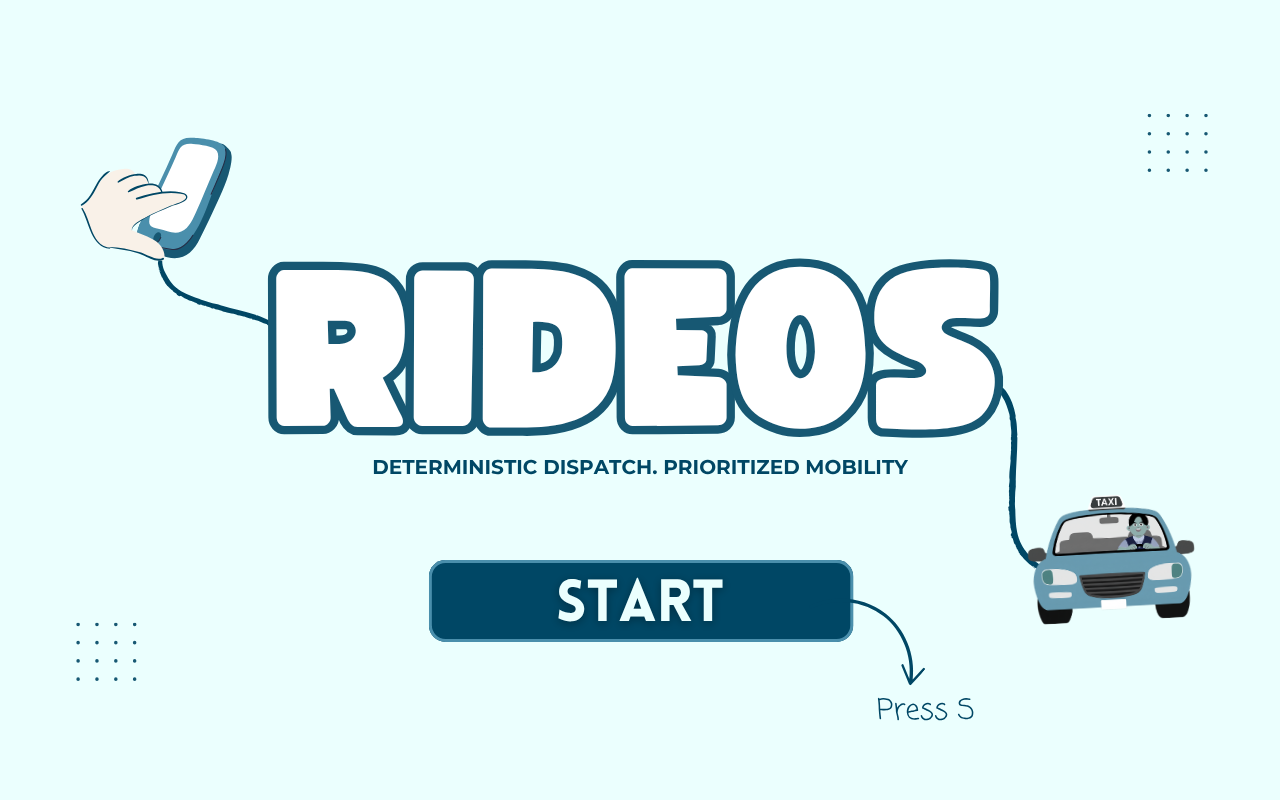
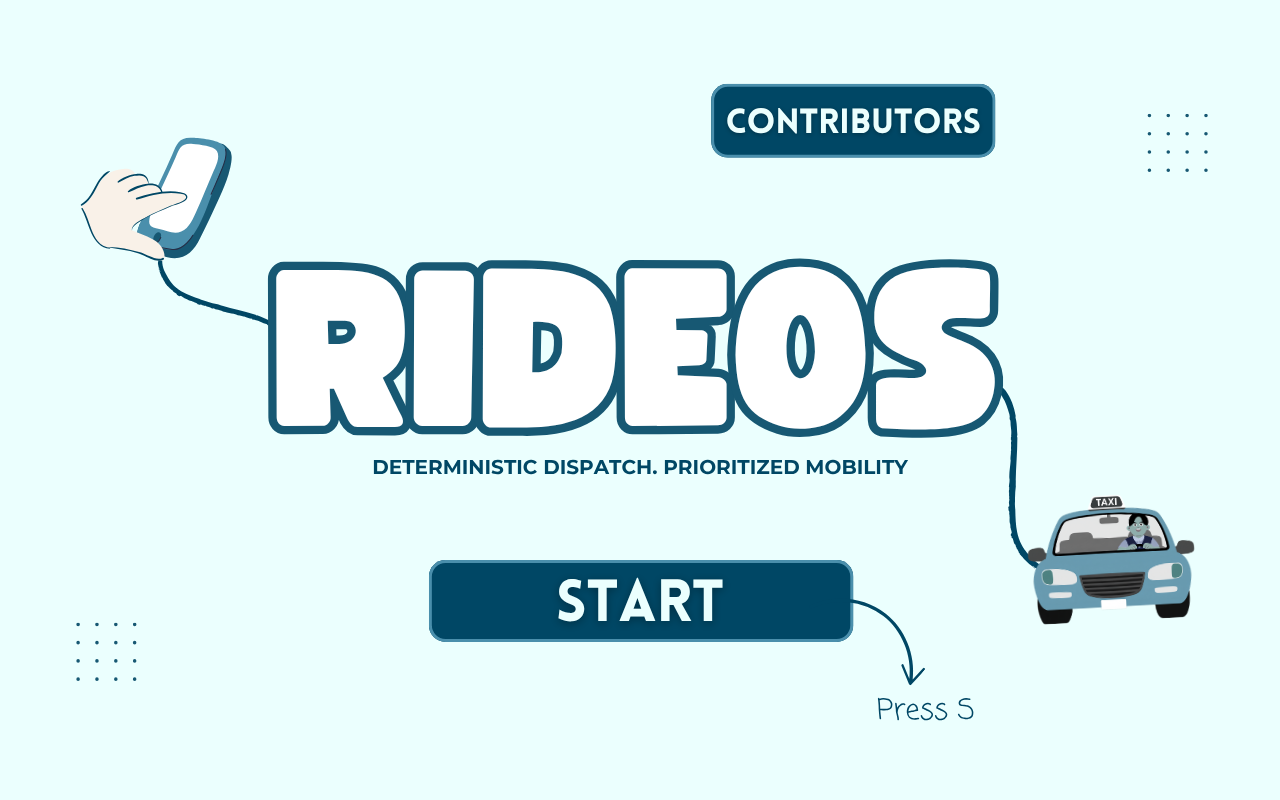
add contributors ong

Changed region(s): [[0.5312, 0.0938, 0.7812, 0.2188]]

diff --git a/request_server/src/gui.c b/request_server/src/gui.c
@@ -26,7 +26,8 @@ typedef enum {
     GUI_INTRO, 
     GUI_CONFIG, 
     GUI_DASHBOARD, 
-    GUI_METRICS 
+    GUI_METRICS,
+    GUI_CONTRIBUTORS 
 } GuiScreen;
 
 int numDriversGrid[10][9] = {
@@ -46,7 +47,7 @@ int numDriversGrid[10][9] = {
 int bgGrid[10][9] = {
     {0, 0, 0, 0, 0, 0, 0, 0, 0},
     {0, 0, 0, 0, 0, 0, 0, 0, 0},
-    {0, 0, 0, 0, 0, 0, 0, 0, 0},
+    {0, 0, 0, 0, 0, 0, 2, 2, 0},
     {0, 0, 0, 0, 0, 0, 0, 0, 0},
     {0, 0, 0, 0, 0, 0, 0, 0, 0},
     {0, 0, 0, 0, 0, 0, 0, 0, 0},
@@ -70,17 +71,18 @@ static const Color C_ORANGE = {230, 145, 60, 255};
 static const Color C_TEXT = {14, 50, 68, 255};
 static const Color C_DIM = {58, 104, 124, 255};
 static const Color C_DARK = {10, 40, 55, 255};
-static const Color C_SIDE_HDR = {4, 58, 76, 255};  // dark sidebar header bg
-static const Color C_SIDE_MID = {8, 72, 96, 255};  // slightly lighter sidebar mid
-static const Color C_PANEL3 = {188, 218, 226, 255};  // darker panel variant
-static const Color C_AMBER = {230, 175, 20, 255};  // warm amber for surge
+static const Color C_SIDE_HDR = {4, 58, 76, 255};   
+static const Color C_SIDE_MID = {8, 72, 96, 255};   
+static const Color C_PANEL3 = {188, 218, 226, 255}; 
+static const Color C_AMBER = {230, 175, 20, 255};  
 
 // asset paths
-#define INTRO_PNG_PATH  "assets/bg.png"
-#define CONFIG_PNG_PATH "assets/selectDrivers.png"
+#define INTRO_PNG_PATH        "assets/bg.png"
+#define CONFIG_PNG_PATH       "assets/selectDrivers.png"
+#define CONTRIBUTORS_PNG_PATH "assets/contributors.png"
 
 // end simulation button (sidebar — fixed position from bottom)
-static const Rectangle END_BTN = { PAD, SCREEN_H - 56, SIDEBAR_W - PAD * 2, 36 };
+static const Rectangle END_BTN = {PAD, SCREEN_H - 56, SIDEBAR_W - PAD * 2, 36};
 
 // activity feed
 #define FEED_CAP 22
@@ -676,8 +678,10 @@ void runGui() {
 
     Texture2D introTex = {0};
     Texture2D configTex = {0};
+    Texture2D contribTex = {0};
     bool introLoaded = false;
     bool configLoaded = false;
+    bool contribLoaded = false;
 
     if (FileExists(INTRO_PNG_PATH)) {
         introTex = LoadTexture(INTRO_PNG_PATH);
@@ -690,6 +694,11 @@ void runGui() {
         configLoaded = true;
     } else {
         printf("GUI --- config PNG not found at '%s', using fallback.\n", CONFIG_PNG_PATH);
+    }
+
+    if (FileExists(CONTRIBUTORS_PNG_PATH)) {
+        contribTex = LoadTexture(CONTRIBUTORS_PNG_PATH);
+        contribLoaded = true;
     }
 
     GuiScreen screen = GUI_INTRO;
@@ -731,8 +740,11 @@ void runGui() {
             case GUI_INTRO:
                 if (IsKeyPressed(KEY_S))
                     screen = GUI_CONFIG;
-                if (clicked && gridValueAt(bgGrid, mouse) == 1)
-                    screen = GUI_CONFIG;
+                if (clicked) {
+                    int val = gridValueAt(bgGrid, mouse);
+                    if (val == 1) screen = GUI_CONFIG;
+                    if (val == 2) screen = GUI_CONTRIBUTORS;
+                }
                 break;
 
             case GUI_CONFIG:
@@ -856,6 +868,12 @@ void runGui() {
                 break;
             }
 
+            case GUI_CONTRIBUTORS:
+                if (clicked || IsKeyPressed(KEY_ESCAPE))
+                    screen = GUI_INTRO;
+                break;
+            }
+
             case GUI_METRICS:
                 if (IsKeyPressed(KEY_ESCAPE))
                     goto cleanup;
@@ -889,16 +907,28 @@ void runGui() {
             case GUI_METRICS:
                 drawMetricsScreen(&finalMetrics);
                 break;
+            case GUI_CONTRIBUTORS:
+                if (contribLoaded) {
+                    DrawTexturePro(contribTex,
+                        (Rectangle){ 0, 0, (float)contribTex.width, (float)contribTex.height },
+                        (Rectangle){ 0, 0, SCREEN_W, SCREEN_H },
+                        (Vector2){ 0, 0 }, 0.0f, WHITE);
+                } else {
+                    ClearBackground(C_BRAND);
+                    DrawText("CONTRIBUTORS", 100, 100, 40, RAYWHITE);
+                    DrawText("Click anywhere to go back", 100, 160, 20, C_BG);
+                }
+                break;
         }
 
         EndDrawing();
     }
-
+    
 cleanup:
     #undef START_SIM
     if (mainPid > 0) kill(mainPid, SIGINT);
     generatorStop();
     if (introLoaded)  UnloadTexture(introTex);
     if (configLoaded) UnloadTexture(configTex);
+    if (contribLoaded) UnloadTexture(contribTex);
     CloseWindow();
-}

diff --git a/request_server/src/main.c b/request_server/src/main.c
@@ -8,8 +8,8 @@
 int main(void) {
     printf("REQUEST SERVER --- Starting Dashboard Process...\n");
 
-    // 1. Connect to IPC resources created by the Main Server.
-    //    Make sure the Main Server is already running before launching this.
+    // connect to IPC resources created by the main server.
+    // ensure the main server is already running.
     if (initSharedMemory(NULL) != 0) {
         fprintf(stderr, "Could not connect to Shared Memory. Is the Main Server running?\n");
         return 1;
@@ -22,18 +22,9 @@ int main(void) {
         fprintf(stderr, "Could not open Request Pipe.\n");
         return 1;
     }
-
-    // 2. Enter the GUI.
-    //    The GUI state machine handles:
-    //      - Intro screen
-    //      - Config / driver-count selection screen
-    //      - Starting the request generator thread (after config is chosen)
-    //      - Live dashboard
-    //      - Post-simulation metrics screen
-    //    runGui() blocks until the window is closed.
     runGui();
 
-    // 3. Cleanup (generator is already stopped inside runGui before it returns)
+    // cleanup 
     printf("REQUEST SERVER --- Shutting down...\n");
     pipeCleanup();
     shmCleanup();

diff --git a/main_server/src/request.c b/main_server/src/request.c
@@ -51,9 +51,6 @@ void* requestThread(void* arg) {
         }
     }
     pthread_mutex_unlock(&req->waitMutex);
-
-    // if assigned, the thread exits normally.
-    // if cancelled, it might need to notify metrics (handled by friend's logger/metrics).
     pthread_exit(0);
 }
 
